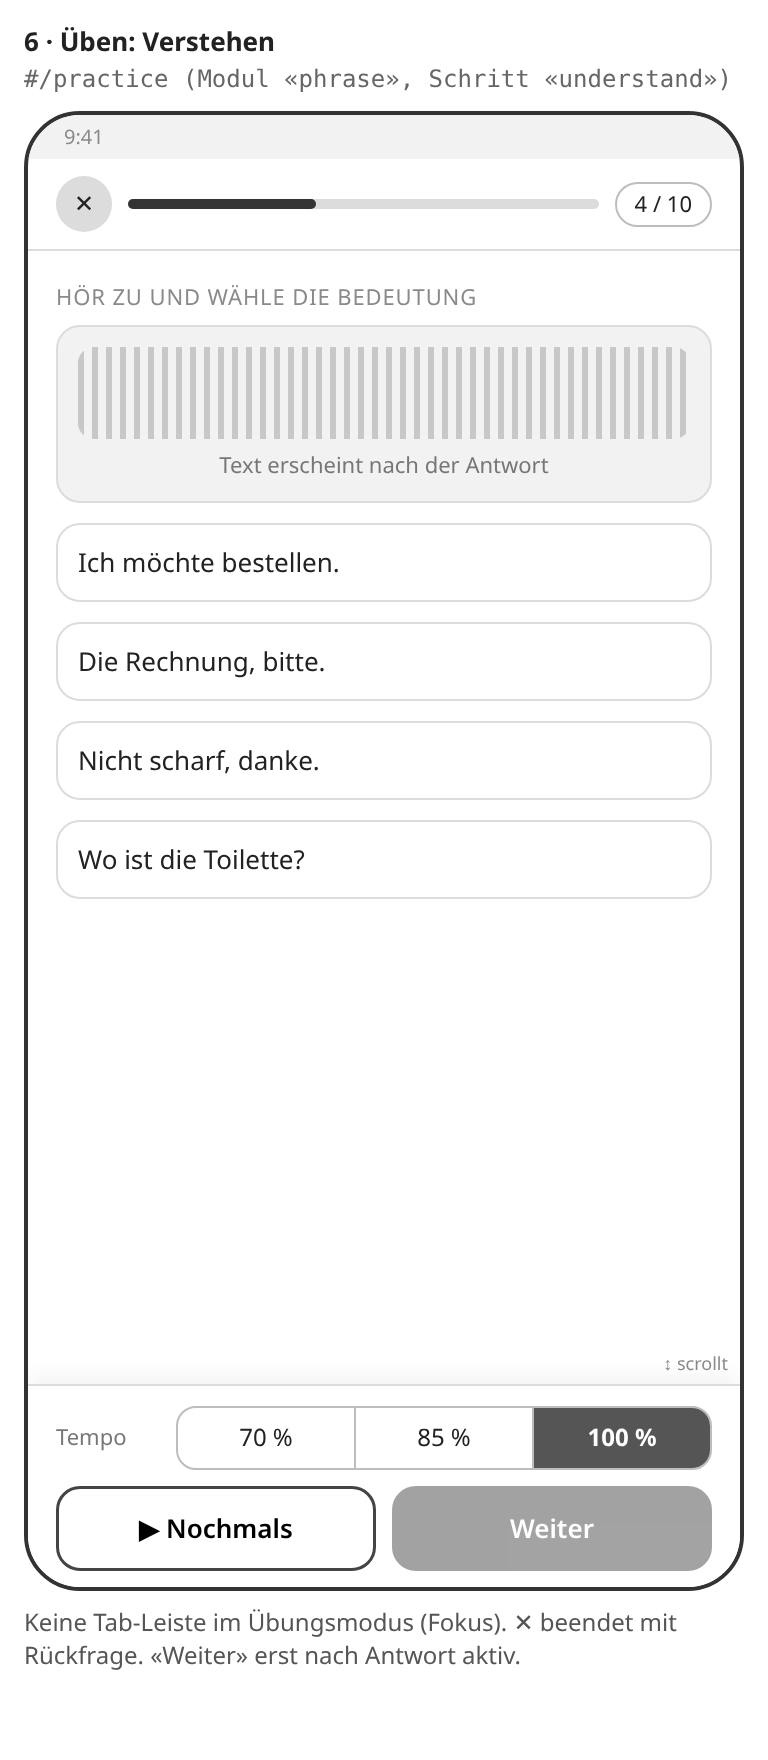
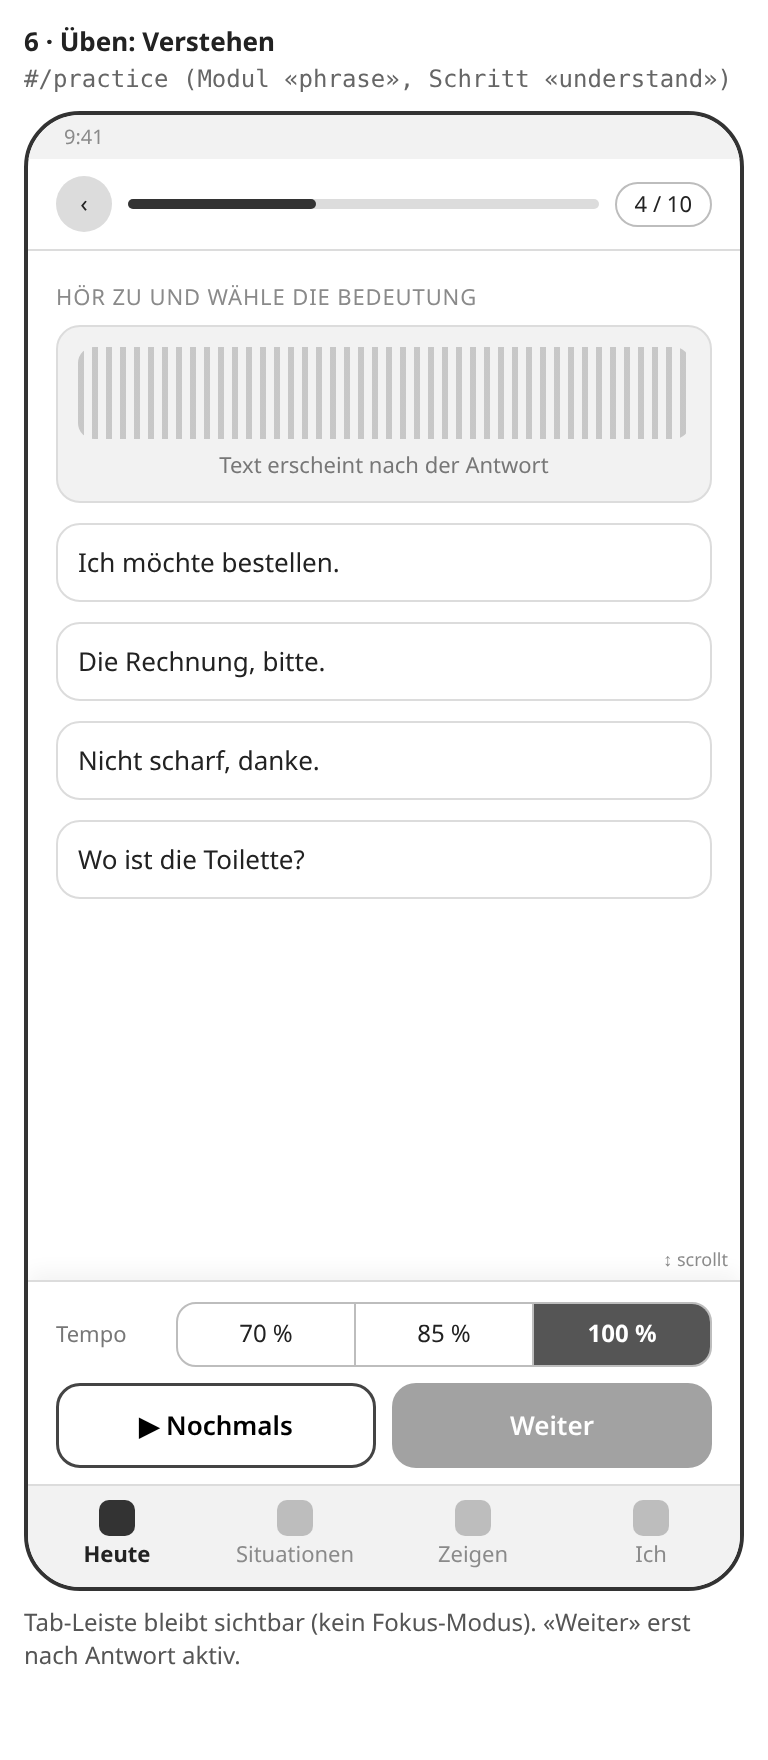
docs: lokalen Pfad entfernen und Wireframes ohne Fokus-Modus nachziehen
TT-ARCH-1: Ablaufplan verweist auf docs/architektur/ statt /workspace.
TT-ARCH-2: Tab-Leiste auf Phrase, Üben, Rollenspiel, Kultur und
Sitzung fertig; PNGs neu gerendert.

Changed region(s): [[0.0312, 0.6875, 0.9375, 0.9688], [0.125, 0.75, 0.1562, 0.7812]]

diff --git a/docs/architektur/wireframes.html b/docs/architektur/wireframes.html
@@ -46,7 +46,7 @@
 </head>
 <body>
 <h1>Travel Talk – Wireframes für den GUI-Umbau</h1>
-<p class="sub">Entwurf 13.11.2026, nachgeführt 16.11.2026 · mobile-first (360 × 740) · graue Platzhalter · Hauptaktionen (1–3) immer unten fixiert, Inhalt scrollt darüber · Tempo 70/85/100 %, Standard 100 %, gemerkt · <b>Tab-Leiste bleibt auch in Übungen und auf der Phrasen-Seite sichtbar</b> (Fokus-Modus verworfen am 16.11.2026, Projektinhaber). Massgebend sind die Entscheide vom 16.11.2026 (kein Fokus-Modus, Tab-Leiste immer sichtbar); einige Screens unten zeigen noch den alten ✕-Entwurf ohne Tabs.</p>
+<p class="sub">Entwurf 13.11.2026, nachgeführt 16.11.2026 · mobile-first (360 × 740) · graue Platzhalter · Hauptaktionen (1–3) immer unten fixiert, Inhalt scrollt darüber · Tempo 70/85/100 %, Standard 100 %, gemerkt · <b>Tab-Leiste bleibt auch in Übungen und auf der Phrasen-Seite sichtbar</b> (Fokus-Modus verworfen am 16.11.2026, Projektinhaber). Massgebend sind die Entscheide vom 16.11.2026 (kein Fokus-Modus, Tab-Leiste immer sichtbar).</p>
 <div class="grid">
 
 <!-- 1 Onboarding Sprache -->
@@ -151,6 +151,7 @@
       <div class="row"><span style="font-size:11px;color:#777;width:52px">Tempo</span><div class="seg grow"><span>70 %</span><span>85 %</span><span class="on">100 %</span></div></div>
       <div class="row"><button>🎤 Nachsprechen</button><button class="pri">▶ Anhören</button></div>
     </div>
+      <div class="tabs"><span><b></b>Heute</span><span class="on"><b></b>Situationen</span><span><b></b>Zeigen</span><span><b></b>Ich</span></div>
   </div>
   <p class="note">Tempo sitzt bei der Aktionsleiste, Standard 100 %, die Wahl wird gemerkt. Karaoke-Markierung pro Wort. Wischen = nächste Phrase.</p>
 </div>
@@ -159,7 +160,7 @@
 <div class="item" id="s06-ueben-verstehen">
   <p class="cap">6 · Üben: Verstehen</p><p class="route">#/practice (Modul «phrase», Schritt «understand»)</p>
   <div class="phone"><div class="status">9:41</div>
-    <div class="top"><span class="ic">✕</span><div class="grow" style="flex:1"><div class="prog"><i></i></div></div><span class="pill">4 / 10</span></div>
+    <div class="top"><span class="ic">‹</span><div class="grow" style="flex:1"><div class="prog"><i></i></div></div><span class="pill">4 / 10</span></div>
     <div class="scroll">
       <div class="lbl">Hör zu und wähle die Bedeutung</div>
       <div class="box" style="text-align:center"><div class="wave"></div><div style="font-size:11px;color:#777;margin-top:6px">Text erscheint nach der Antwort</div></div>
@@ -172,15 +173,16 @@
       <div class="row"><span style="font-size:11px;color:#777;width:52px">Tempo</span><div class="seg grow"><span>70 %</span><span>85 %</span><span class="on">100 %</span></div></div>
       <div class="row"><button>▶ Nochmals</button><button class="pri" style="opacity:.45">Weiter</button></div>
     </div>
+      <div class="tabs"><span class="on"><b></b>Heute</span><span><b></b>Situationen</span><span><b></b>Zeigen</span><span><b></b>Ich</span></div>
   </div>
-  <p class="note"><b>Verworfen 16.11.2026:</b> Der Fokus-Modus (keine Tab-Leiste, ✕ mit Rückfrage) gilt nicht. Die Tab-Leiste bleibt sichtbar. Die Zeichnung zeigt noch den alten Entwurf. «Weiter» erst nach Antwort aktiv.</p>
+  <p class="note">Tab-Leiste bleibt sichtbar (kein Fokus-Modus). «Weiter» erst nach Antwort aktiv.</p>
 </div>
 
 <!-- 7 Üben Nachsprechen 5 Sterne -->
 <div class="item" id="s07-ueben-nachsprechen">
   <p class="cap">7 · Üben: Nachsprechen mit 5-Sterne-Feedback</p><p class="route">#/practice (Schritt «repeat», useRepeatScore)</p>
   <div class="phone"><div class="status">9:41</div>
-    <div class="top"><span class="ic">✕</span><div style="flex:1"><div class="prog"><i style="width:60%"></i></div></div><span class="pill">6 / 10</span></div>
+    <div class="top"><span class="ic">‹</span><div style="flex:1"><div class="prog"><i style="width:60%"></i></div></div><span class="pill">6 / 10</span></div>
     <div class="scroll">
       <div class="big kar"><span>Không</span> <span>cay,</span> <span>cảm</span> <span>ơn.</span></div>
       <div style="color:#555;margin:4px 0 10px">Nicht scharf, danke.</div>
@@ -190,6 +192,7 @@
       <div class="box"><div class="lbl">Wort für Wort</div><span class="chip">Không ✓</span><span class="chip">cay ✓</span><span class="chip">cảm ~</span><span class="chip">ơn ✓</span></div>
     </div>
     <div class="actions"><div class="row"><button>▶ Vorbild</button><button>🎤 Nochmals</button><button class="pri">Weiter</button></div></div>
+      <div class="tabs"><span class="on"><b></b>Heute</span><span><b></b>Situationen</span><span><b></b>Zeigen</span><span><b></b>Ich</span></div>
   </div>
   <p class="note">Sterne zuerst (1 Blick), Details darunter scrollbar. Aufnahmen bleiben lokal. Max. 3 Knöpfe.</p>
 </div>
@@ -198,7 +201,7 @@
 <div class="item" id="s08-rollenspiel">
   <p class="cap">8 · Übungsart «Rollenspiel/Dialog» (neues Plug-in)</p><p class="route">#/practice?type=dialog&amp;id=dialog.cafe-order</p>
   <div class="phone"><div class="status">9:41</div>
-    <div class="top"><span class="ic">✕</span><span class="t">Im Café bestellen</span><span class="pill">3 / 6</span></div>
+    <div class="top"><span class="ic">‹</span><span class="t">Im Café bestellen</span><span class="pill">3 / 6</span></div>
     <div class="scroll">
       <div class="lbl">Du bist: Gast</div>
       <div class="bubble"><b>Bedienung</b> ▶<br>Anh muốn uống gì?<div style="font-size:11px;color:#666">Was möchtest du trinken?</div></div>
@@ -209,6 +212,7 @@
       <div class="box" style="background:#fff">Không đá. <span style="color:#777">· Ohne Eis.</span></div>
     </div>
     <div class="actions"><div class="row"><button>▶ Nochmals</button><button class="pri">🎤 Sprechen</button></div></div>
+      <div class="tabs"><span class="on"><b></b>Heute</span><span><b></b>Situationen</span><span><b></b>Zeigen</span><span><b></b>Ich</span></div>
   </div>
   <p class="note">Gleicher Rahmen wie andere Übungen; nur die Mitte (View des Moduls) ist neu. Aktionen liefert das Modul.</p>
 </div>
@@ -243,6 +247,7 @@
       <div class="box"><div class="lbl">Quellen · geprüft 10.2026</div><div class="line w60"></div><div class="line w40"></div></div>
     </div>
     <div class="actions"><button class="pri">Sätze dazu üben</button></div>
+      <div class="tabs"><span><b></b>Heute</span><span class="on"><b></b>Situationen</span><span><b></b>Zeigen</span><span><b></b>Ich</span></div>
   </div>
   <p class="note">Erreichbar aus Situation (Tab «Kultur») und aus der Situationen-Liste.</p>
 </div>
@@ -293,7 +298,7 @@
 <div class="item" id="s13-ende">
   <p class="cap">13 · Sitzung fertig</p><p class="route">#/practice (finished)</p>
   <div class="phone"><div class="status">9:41</div>
-    <div class="top"><span class="ic">✕</span><span class="t">Geschafft</span></div>
+    <div class="top"><span class="ic">‹</span><span class="t">Geschafft</span></div>
     <div class="scroll" style="text-align:center">
       <div class="stars" style="font-size:40px;margin-top:20px">★★★★<span class="off">★</span></div>
       <div class="big">10 Übungen · 8 Min.</div>
@@ -302,6 +307,7 @@
       <div class="box" style="text-align:left"><div class="lbl">Schwierig</div><span class="chip">cảm ơn</span><span class="chip">dị ứng</span></div>
     </div>
     <div class="actions"><div class="row"><button>Schwierige üben</button><button class="pri">Fertig</button></div></div>
+      <div class="tabs"><span class="on"><b></b>Heute</span><span><b></b>Situationen</span><span><b></b>Zeigen</span><span><b></b>Ich</span></div>
   </div>
   <p class="note">Klares Ende statt endloser Schleife.</p>
 </div>

diff --git a/docs/architektur/ablaufplan.md b/docs/architektur/ablaufplan.md
@@ -139,7 +139,7 @@ Die Daten sind Richtwerte. Sie hängen vom Cloud-Agent-Kontingent ab und davon, 
 
 ## Was jetzt schon erledigt ist (Teil A, 13.11.)
 
-- Review, ADR-001 bis ADR-004, Bausteine, GUI-Konzept mit Wireframes, Testplan und Issue-Entwürfe liegen unter `/workspace/travel-talk-architektur/`.
+- Review, ADR-001 bis ADR-004, Bausteine, GUI-Konzept mit Wireframes, Testplan und Issue-Entwürfe liegen in diesem Verzeichnis (`docs/architektur/`).
 - **Entschieden am 13.11.:** Tempo 100 % mit wählbarer Automatik, Rollenspiel nach dem GUI-Umbau, Merge-Regel ohne extra Vorschau.
 - **Entschieden am 16.11. (Projektinhaber):** 4 Tabs (Heute, Situationen, Zeigen, Ich), «Nachschlagen» in Situationen, kein Fokus-Modus (Tab-Leiste bleibt in Übungen und auf der Phrasen-Seite sichtbar), Sterne-Bedingungen in [`gui-konzept.md`](gui-konzept.md) als verbindliche Basis für die Kalibrierung am 27.11. Die Wireframes sind nachgeführt; der frühere klickbare Prototyp liegt nicht in diesem Repo.
 - Der Entwickler-Bot bekommt diese Unterlagen am 27.11. als Grundlage. Die Routinen um 09:30 und 10:00 bleiben, die Notiz zu V1 (`useRepeatScore` und Sterne-Basis) kommt dazu.

diff --git a/docs/architektur/issues-entwuerfe.md b/docs/architektur/issues-entwuerfe.md
@@ -232,7 +232,7 @@
 
 > **Entscheid 16.11.2026 (Projektinhaber):** Kein Fokus-Modus. Die Tab-Leiste bleibt auch in Übungen und auf der Phrasen-Seite immer sichtbar. Die Sterne-Bedingungen in [`gui-konzept.md`](gui-konzept.md) sind die verbindliche Basis für die 5-Sterne-Kalibrierung am 27.11.
 
-**Umfang:** Wireframes 1, 5, 6, 7 und 13. Tab-Leiste bleibt auf Phrase, Üben und Sitzung fertig sichtbar; kein Fokus-Modus und kein ✕-Beenden ohne Tab-Leiste. (Einige ältere Wireframes zeigen noch den verworfenen Fokus-Modus; massgebend sind dieser Entscheid und [`gui-konzept.md`](gui-konzept.md).)
+**Umfang:** Wireframes 1, 5, 6, 7 und 13. Tab-Leiste bleibt auf Phrase, Üben und Sitzung fertig sichtbar; kein Fokus-Modus und kein ✕-Beenden ohne Tab-Leiste. (Die Wireframes in [`wireframes.html`](wireframes.html) zeigen die Tab-Leiste auf Phrase, Üben und Sitzung fertig.)
 - Das Onboarding zeigt die aus dem Browser erkannte App-Sprache vorausgewählt («erkannt aus deinem Browser», änderbar), danach folgt die Wahl der Lernsprache. Beide lassen sich später unter Ich → Sprachen ändern (Vorgabe des Projektinhabers, 13.11.2026).
 
 **Akzeptanzkriterien**

diff --git a/docs/architektur/gui-konzept.md b/docs/architektur/gui-konzept.md
@@ -23,7 +23,7 @@
 
 ## Navigation
 
-**Entschieden am 16.11.2026 (Projektinhaber):** 4 Tabs. «Nachschlagen» gehört in den Tab Situationen. Ältere Wireframes zeigen noch den verworfenen Fokus-Modus; massgebend sind die Entscheide in diesem Dokument. Der frühere klickbare Prototyp liegt nicht in diesem Repo.
+**Entschieden am 16.11.2026 (Projektinhaber):** 4 Tabs. «Nachschlagen» gehört in den Tab Situationen. Die Wireframes in [`wireframes.html`](wireframes.html) zeigen die Tab-Leiste auch in Übungen und auf der Phrasen-Seite. Der frühere klickbare Prototyp liegt nicht in diesem Repo.
 
 Heute gibt es Heute, Nachschlagen, Zeigen und Einstellungen, auf einigen Screens zusätzlich Start, Üben und Kultur, also uneinheitlich. Neu sind es 4 Tabs:
 
